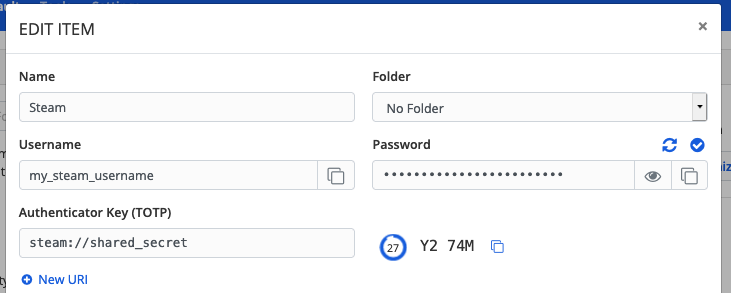
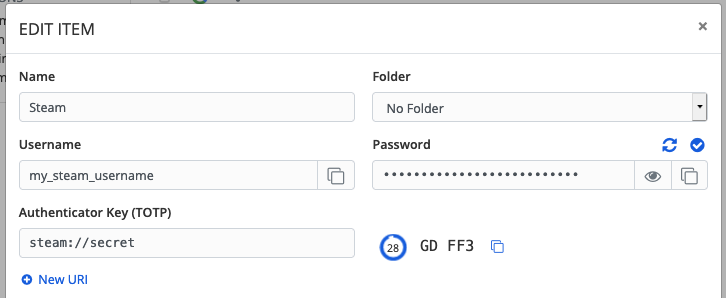
fix

diff --git a/_articles/features/authenticator-keys.md b/_articles/features/authenticator-keys.md
@@ -69,12 +69,12 @@ Learn more about using `otpauth://` URIs [here](https://github.com/google/google
 
 ## Steam Guard TOTPs
 
-The Bitwarden Authenticator (TOTP) can be used as an alternative means of TOTP generation for Steam using a `steam://` prefix followed by your secret key (`shared_secret`):
+The Bitwarden Authenticator (TOTP) can be used as an alternative means of TOTP generation for Steam using a `steam://` prefix followed by your secret key:
 
 {% image steam-totp.png Steam TOTP generation%}
 
 Generated `steam://` TOTPs are by default alphanumeric and 5 digits, as opposed to traditional 6-digit numeric TOTPs.
 
 {% callout warning %}
-To use this functionality, you'll need to manually extract your Steam account's `shared_secret` using a third-party tool. There are tools like [SteamTimeIdler](https://github.com/SteamTimeIdler/stidler/wiki/Getting-your-%27shared_secret%27-code-for-use-with-Auto-Restarter-on-Mobile-Authentication#getting-shared-secret-from-ios-windows){:target="\_blank"} and [Steam Desktop Authenticator](https://github.com/Jessecar96/SteamDesktopAuthenticator){:target="\_blank"} that can help you accomplish this, however such **extraction tools are not officially supported by Bitwarden or Steam**. Use these tools at your own risk.
+To use this functionality, you'll need to manually extract your Steam account's secret using a third-party tool. There are tools like [SteamTimeIdler](https://github.com/SteamTimeIdler/stidler/wiki/Getting-your-%27shared_secret%27-code-for-use-with-Auto-Restarter-on-Mobile-Authentication#getting-shared-secret-from-ios-windows){:target="\_blank"} and [Steam Desktop Authenticator](https://github.com/Jessecar96/SteamDesktopAuthenticator){:target="\_blank"} that can help you accomplish this, however such **extraction tools are not officially supported by Bitwarden or Steam**. Use these tools at your own risk.
 {% endcallout%}
